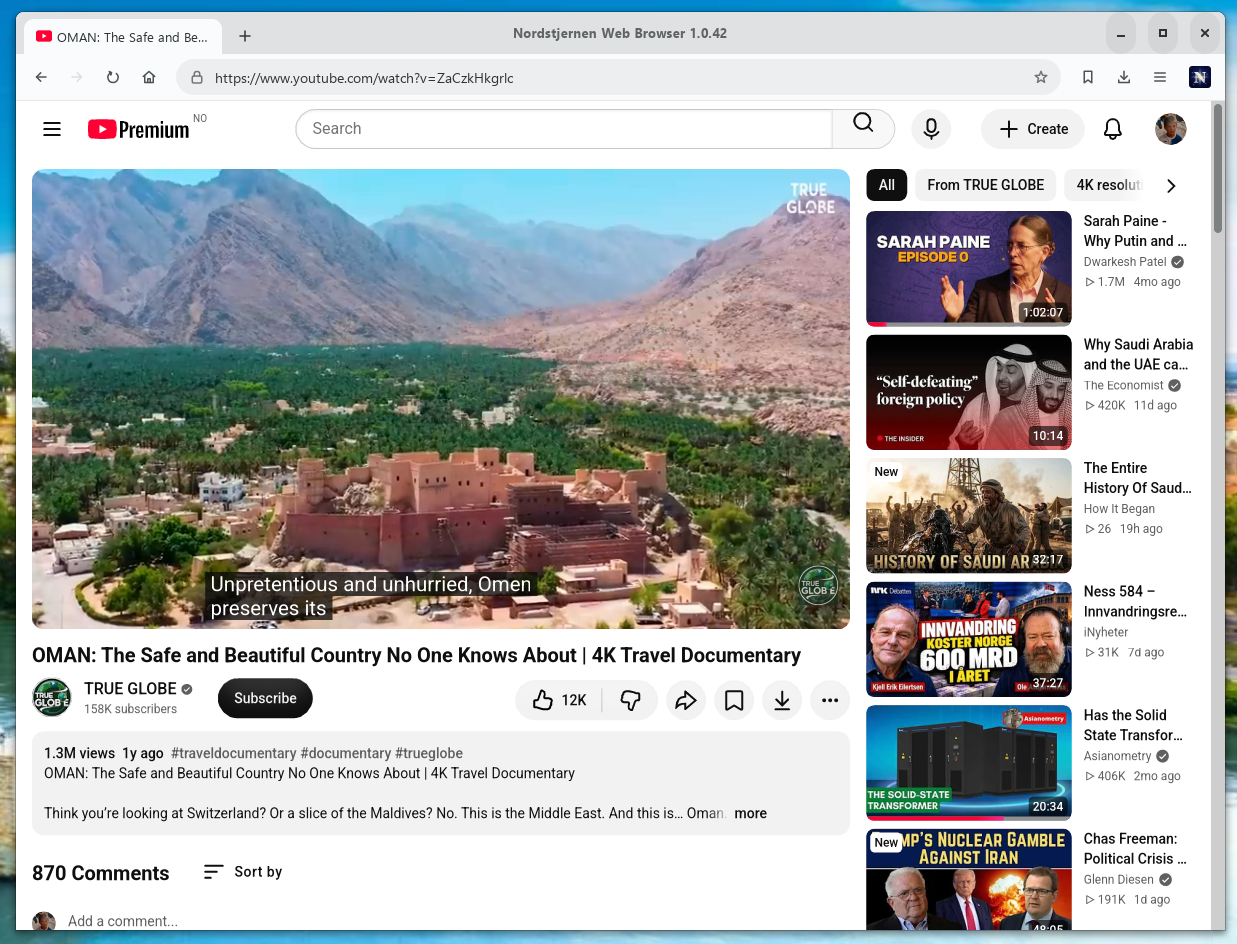
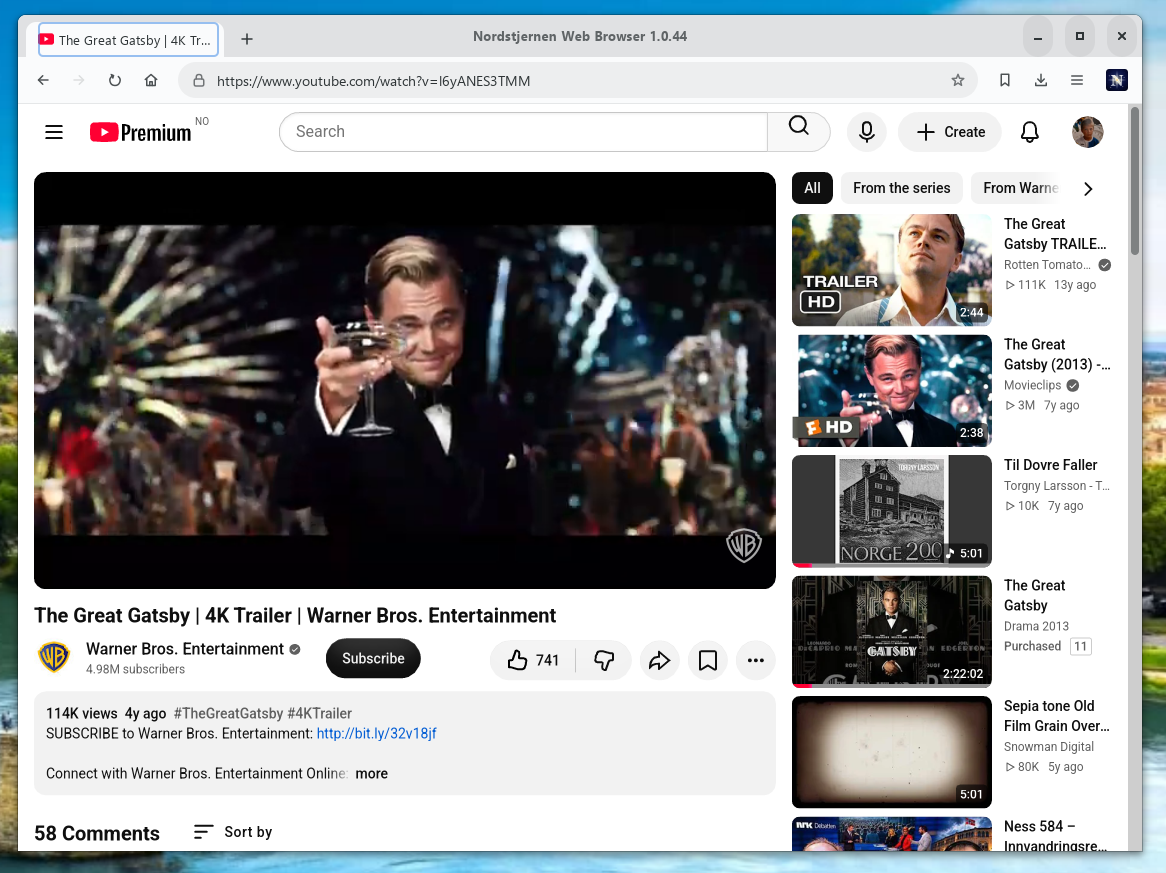
README: screenshot of 1.0.44 playing a YouTube trailer

diff --git a/README.md b/README.md
@@ -11,7 +11,7 @@ modern HTML, CSS and JavaScript standards.
 
 **Windows:** install Nordstjernen Web Browser from the [Windows store](https://apps.microsoft.com/detail/9nw8t7w5z4pl).
 
-![Nordstjernen 1.0.42 playing a 4K travel documentary on YouTube](docs/screenshot.png)
+![Nordstjernen 1.0.44 playing The Great Gatsby trailer on YouTube](docs/screenshot.png)
 
 **Current release:** **1.0.44** (November 2026) — see [Changelog.md](Changelog.md).
 
